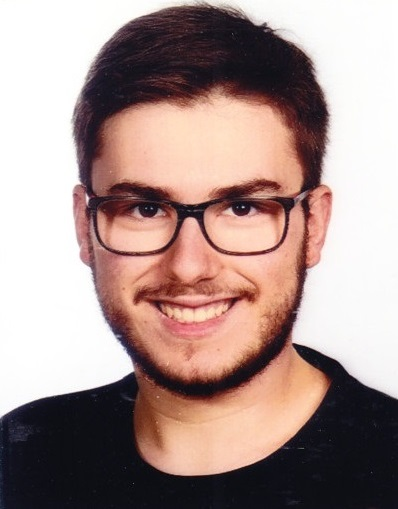
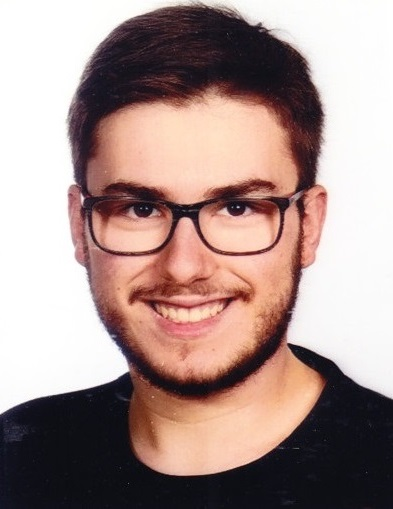
Styled

diff --git a/Work_with_me.html b/Work_with_me.html
@@ -3,32 +3,61 @@
 <head>
     <meta charset="UTF-8">
     <meta name="viewport" content="width=device-width, initial-scale=1.0">
-    <title>Pagina di Esempio</title>
-    <style>
-        body {
-            text-align: center;
-        }
-        .content {
-            width: 80%; /* Larghezza del contenuto in percentuale rispetto alla pagina */
-            margin: 0 auto; /* Centro il contenuto */
-            text-align: justify;
-        }
-        .title, .subtitle {
-            text-align: center; /* Centro i titoli e i sottotitoli */
-        }
-    </style>
-    <link rel="stylesheet" href="night.css">
+    <title>Work with me</title>
+    <link rel="stylesheet" href="./style/night_mode.css">
+    <link rel="stylesheet" href="./style/styling.css">
+    <link rel="stylesheet" href="./style/icon_inline_style.css"
 </head>
 <body>
     <div class="content">
-        <h1 class="title">Titolo Principale della Pagina</h1>
-        <p>Questo è un paragrafo introduttivo che descrive il contenuto della pagina. Il testo è giustificato e centrato.</p>
-        
-        <h2 class="subtitle">Sottotitolo 1</h2>
-        <p>Questo è un paragrafo sotto il primo sottotitolo. Qui puoi aggiungere ulteriori dettagli. Il testo è giustificato e centrato.</p>
-        
-        <h2 class="subtitle">Sottotitolo 2</h2>
-        <p>Questo è un paragrafo sotto il secondo sottotitolo. Qui puoi aggiungere ulteriori dettagli. Il testo è giustificato e centrato.</p>
+        <h1 class="title">Work with me</h1>
+
+        <h2>Who I am</h2>
+        <hr>
+        <p>I am Stefano Costa, a Master's student in Mathematics at the <a href="https://www.unitn.it/">University of Trento</a>, following the <a href="https://offertaformativa.unitn.it/en/lm/mathematics/course-programme"><i>Mathematics and Statistics for Life and Social Sciences</i></a> curriculum, in the <i>Modelling and Simulation for Biomedical Applications</i> track.</p>
+        <p>I graduated with honors in Mathematics from the University of Trento. During my undergraduate studies, I explored various branches of mathematics, and developed a strong interest in numerical analysis and mathematical applications. In my master's program, I focused on the applications of mathematics in cardiovascular medicine, studying cardiovascular models and electrophysiological applications.</p>
+        <p>I am currently in Graz to complete my master's thesis in collaboration with the <a href="https://www.uni-graz.at/en/">University of Graz</a>.</p>
+        <p>You can find me here: 
+            <a href="https://www.linkedin.com/in/stefano-costa-b9829a15b/"> <img src="img/LinkedIn_Logo.png" alt="LinkedIn" class="icon_inline">    </a>,    
+            <a href="https://github.com/St-Costa">                          <img src="img/github_mark.png" alt="Github" class="icon_inline">        </a>,
+            <a href="https://t.me/St_Costa">                                <img src="img/Telegram_logo.png" alt="Telegram" class="icon_inline">    </a>
+        </p>
+
+        &nbsp;
+
+        <h2>What motivates me</h2>
+        <hr>
+        <p>I enjoy reading and consider it an important hobby to balance work and relaxation. I am also passionate about music, which I often listen to while working.</p>
+        <p>I am very curious and enthusiastically participate in meetings because I love learning about mathematical and programming topics I am not yet familiar with. I am particularly interested in artificial intelligence and its applications in the cardiovascular field.</p>
+
+        &nbsp;
+
+        <h2>My Working Style</h2>
+        <hr>
+        <p>In Graz, I improved my time and project management skills to handle all the tasks required for my thesis. I consider myself a skilled programmer with a broad knowledge of many programming languages. Over the years, through university studies and various projects, I have also developed strong skills in LaTeX.</p>
+        <p>To work efficiently, I often listen to background music (using headphones!) and tend to immerse myself in my world of productivity and to-do lists. Despite the music, I prefer working in a quiet office with a dedicated meeting room.</p>
+        <p>Usual timetable:</p>
+        <ul>
+            <li>Work: 9:00 - 12:00</li>
+            <li>Lunch: 12:00 - 13:00</li>
+            <li>Work: 13:00 - 16:30</li>
+        </ul>
+        <p>Favourite software:</p>
+        <ul>
+            <li><a href="https://obsidian.md/">Obsidian</a>: note <i>making</i> software</li>
+            <li><a href="https://code.visualstudio.com/">VSCode</a>: code editor</li>
+            <li><a href="https://t.me/St_Costa">Telegram</a>: messaging app</li>
+        </ul>
+    
+        &nbsp;
+
+        <h2>How to work with me</h2>
+        <hr>
+        <p>I value sincerity and transparency in my coworkers. I enjoy frequent exchanges on how to improve our work together. I appreciate constructive criticism as there is always room for improvement. I expect my coworkers to be open to suggestions as well.</p>
+        <p>In a team, I seek a collaborative group. I want to be on the same wavelength with everyone, and I particularly appreciate being updated on the progress of each member's work, so we can all intervene together if problems arise.</p>
+        <p>Contact me via email (response time: 1 day) or Telegram (response time: 1 hour). For long and detailed messages (which I prefer), email is better.</p>
+        <p>When joining an established group or starting a new project, I prefer to have some time for independent research first. Then, I like to hear the opinions of those with experience in the field or who have previously worked on the project. After these steps, I work very independently.</p>
+
     </div>
 </body>
 </html>

diff --git a/index.html b/index.html
@@ -3,45 +3,43 @@
 <head>
     <meta charset="UTF-8">
     <meta name="viewport" content="width=device-width, initial-scale=1.0">
-    <title>Stefano Costa</title>
-    <style>
-        body {
-            text-align: center;
-            font-family: Arial, sans-serif;
-        }
-        .content {
-            width: 80%;
-            margin: 0 auto;
-        }
-        img {
-            max-width: 100%;
-            height: auto;
-        }
-        ul {
-            list-style-type: none;
-            padding: 0;
-        }
-        li {
-            margin: 10px 0;
-        }
-        a {
-            text-decoration: none;
-            color: #0000EE;
-        }
-        a:hover {
-            text-decoration: underline;
-        }
-    </style>
-    <link rel="stylesheet" href="night.css">
+    <title>Stefano Costa's webpage</title>
+    <link rel="stylesheet" href="style/night_mode.css">
+    <link rel="stylesheet" href="style/styling.css">
+    <link rel="stylesheet" href="style/footer_style.css">
+    <link rel="stylesheet" href="style/icon_style.css">
 </head>
 <body>
     <div class="content">
         <h1>Stefano Costa</h1>
-        <img src="./img/Stefano_Costa.jpg" alt="Immagine di Stefano Costa">
+        <img src="./img/Stefano_Costa.jpg" alt="Stefano Costa", width="250px">
         
         <ul>
-            <li><a href="Work_with_me.html">Work with me</a></li>
+            <li><a href="Work_with_me.html">Document: WORK WITH ME</a></li>
         </ul>
     </div>
+
+    <div class="linkedin-link">
+        
+    </div>
+
+    <hr>
+    <footer>
+        <div class="footer-link left">
+            <a href="https://www.linkedin.com/in/stefano-costa-b9829a15b/">
+                <img src="img/LinkedIn_Logo.png" alt="LinkedIn" class="icon">
+            </a>    
+        </div>
+        <div class="footer-link center">
+            <a href="https://github.com/St-Costa">
+                <img src="img/github_mark.png" alt="Github" class="icon">
+            </a>
+        </div>
+        <div class="footer-link right">
+            <a href="https://t.me/St_Costa">
+                <img src="img/Telegram_logo.png" alt="Telegram" class="icon">
+            </a>
+        </div>
+    </footer>
 </body>
 </html>

diff --git a/style/night_mode.css b/style/night_mode.css
@@ -1,42 +1,21 @@
-/* night.css */
 
 body {
     background-color: #121212;
-    color: #e0e0e0;
-    font-family: Arial, sans-serif;
+    color: #F5F5F7;
+}
+
+h1, h2, h3, h4, h5, h6 {
+    color: #F5F5F7;
     text-align: center;
-}
-
-.content {
-    width: 80%;
-    margin: 0 auto;
-}
-
-h1, h2 {
-    color: #ffffff;
 }
 
 a {
     text-decoration: none;
-    color: #bb86fc;
+    color: #6ed6f0;
 }
 
-a:hover {
-    text-decoration: underline;
-}
-
-ul {
-    list-style-type: none;
-    padding: 0;
-}
-
-li {
-    margin: 10px 0;
-}
-
-img {
-    max-width: 100%;
-    height: auto;
-    border: 2px solid #bb86fc;
-    border-radius: 10px;
+hr {
+    border: 0;
+    border-top: 2px solid #F5F5F7;
+    margin: 20px 0;
 }

diff --git a/style/styling.css b/style/styling.css
@@ -1,0 +1,43 @@
+
+body {
+    font-family: Arial, sans-serif;
+    margin-left: 20%;
+    margin-right: 20%;
+    margin-top: 70px;
+    margin-bottom: 70px;
+    text-align: center;    
+}
+
+.content {
+    margin: 0 auto;
+    text-align: justify;
+}
+
+h1, h2, h3, h4, h5, h6 {
+    text-align: center;
+}
+
+h1 {
+    font-size: 60px;
+}
+
+a:hover {
+    text-decoration:underline;
+}
+
+ul {
+    list-style-type: none;
+    padding: 0;
+    text-align: center;
+}
+
+li {
+    margin: 10px 0;
+}
+
+img {
+    border-radius: 10px;
+    display: block;
+    margin-left: auto;
+    margin-right: auto;
+}

diff --git a/style/footer_style.css b/style/footer_style.css
@@ -1,0 +1,17 @@
+footer {
+    display: flex;
+    justify-content: space-between;
+}
+.footer-link {
+    flex: 1;
+    text-align: center;
+}
+.footer-link.left {
+    text-align: left;
+}
+.footer-link.right {
+    text-align: right;
+}
+footer a:hover {
+    text-decoration: underline;
+}

diff --git a/style/icon_style.css b/style/icon_style.css
@@ -1,0 +1,4 @@
+.icon {
+    width: 40px;
+    border-radius: 0px !important;
+}

diff --git a/style/icon_inline_style.css b/style/icon_inline_style.css
@@ -1,0 +1,4 @@
+.icon_inline {
+    width: 30px;
+    display: inline;
+}
